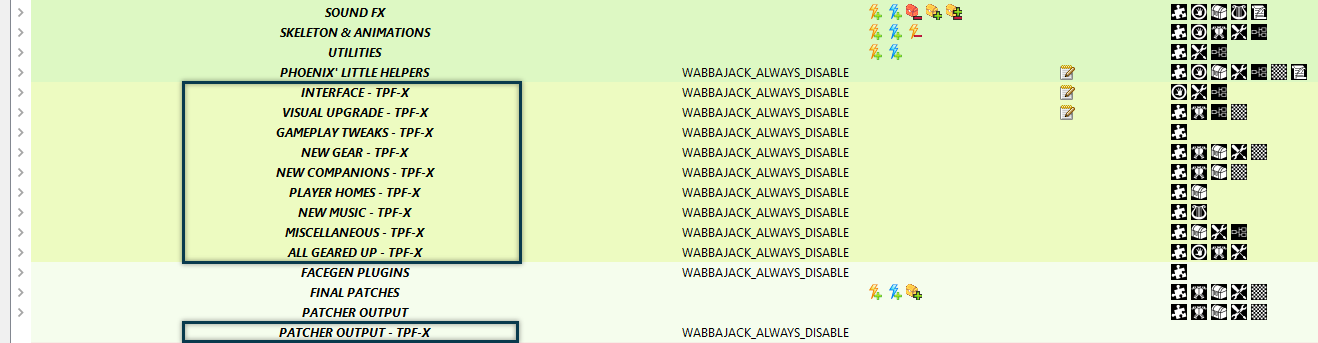
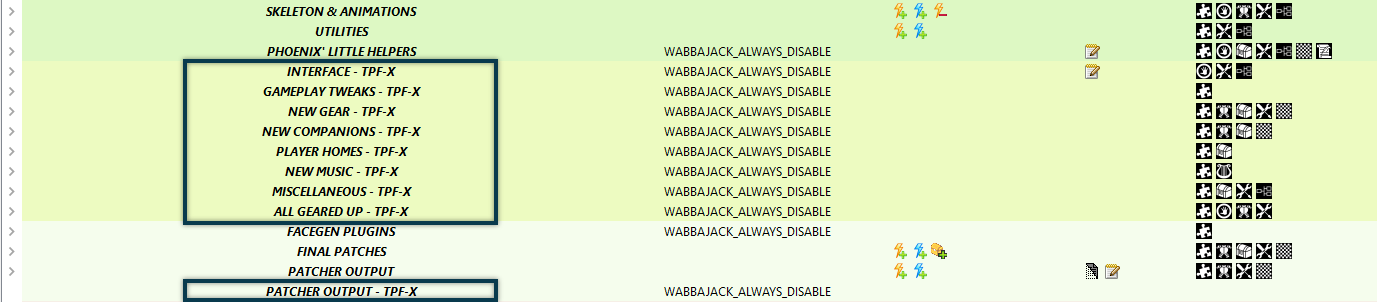
TPF 4.6 WIP 6

diff --git a/content/tpf-x/introduction/_index.md b/content/tpf-x/introduction/_index.md
@@ -11,9 +11,7 @@ description: >
 
 The Phoenix Flavour Extended or **TPF-X** for short is an **Addon** for the main TPF setup. It requires an up-to-date installation of The Phoenix Flavour and you will need to start a new save game.
 
-TPF-X and other TPF Addons are *separate* from the main guide. This means that you will not receive support in the official guide channels on Discord after installing it. You should install *and test* the main setup first before installing an Addon.
-
-> The current 1.0 version of TPF-X is an experiment. Please consider it a "beta" version, subject to change.
+TPF-X and other TPF Addons are *separate* from the main guide. This means that you will not receive support in the official guide channels on Discord after installing it. You should install *and test* the main setup first before installing an Addon. You may ask for support in the `#tpf-addons-support` channel.
 
 ### Wabbajack
 
@@ -24,11 +22,10 @@ TPF-X may be added as a second profile in the official Wabbajack installer in th
 TPF-X contains mods I personally want to play with but cannot reasonably add to the main setup. That includes both additional content as well as UI and other tweaks that are too much of a departure from the original style to be considered "vanilla plus". While I have a strict concept that I follow when selecting mods for TPF, I intend to use TPF-X mostly for trying things out.
 
 - **Interface:** Contains some interface mods most of which used to be in the base TPF setup but were removed. I don't actually play with most of these but they are easy additions and painless for me to support. Also contains two alternate font replacers!
-- **Visual Upgrade:** Support for Rudy ENB for Cathedral Weathers and my personal favourite grass overhaul, Folkvangr. May be expanded with separate INI instructions and more in the future.
-- **Gameplay Tweaks:** Additional mods that only affect combat so far, turning down the difficulty to more vanilla-like levels.
+- **Gameplay Tweaks:** Additional mods that only affect combat so far, turning down the difficulty to more vanilla-like levels and disabling kill cams altogether which is my personal preference.
 - **New Gear:** I have added a long-time personal favourite of mine, Royal Armory by PrivateEye which has been fixed and improved by other mod authors and brought to a state where it will fit in beautifully.
-- **New Companions:** I have added Inigo, my beloved blue cat, with a bunch of improvements, as well as Lucien whom I've always wanted to try out. It is unlikely that I will be adding more companions in the future but these two already bring insane amounts of content to the table.
-- **Player Homes:** Currently includes patches for three player homes from the Creation Club. They obviously require the original "creations".
+- **New Companions:** I have added Inigo, my beloved blue cat, with a bunch of improvements, as well as Lucien. It is unlikely that I will be adding more companions in the future but these two already bring insane amounts of content to the table.
+- **Player Homes:** Currently includes patches for three player homes from the Creation Club: Tundra Homestead, Myrwatch, and Shadowfoot Sanctum. The original "creations" are obviously required.
 - **New Music:** My personal favourite new music mods, all merged into a single, patched plugin. Features music by NirShor and OrganicView as well as new tracks from the original composer, Jeremy Soule.
 - **Miscellaneous:** A selection of mods I wouldn't add to TPF as they may be slightly controversial (see for yourself).
 - **AllGUD:** Support for All Geared Up Derivative which was removed from the main guide.

diff --git a/content/tpf/appendix/changelog.md b/content/tpf/appendix/changelog.md
@@ -67,6 +67,7 @@ I finally decided to move all mods adding to music, including my merged plugin, 
 
 - **New save required.**
 - Regenerate INI files ([instructions](/tpf/guide-resources/various-tutorials/#how-to-re-generate-ini-files-from-scratch)).
+- Update [SSELODGen](https://stepmodifications.org/forum/topic/13451-xlodgen-terrain-lod-beta-82-for-fnv-fo3-fo4-fo4vr-tes5-sse-tes5vr-enderal-enderalse/), delete your old terrain LOD output, and regenerate it ([instructions](/tpf/finalisation/sselodgen/)).
 - Rerun TexGen, DynDOLOD, and Occlusion ([instructions](/tpf/guide-resources/how-to-update/#dyndolod)).
 - **Wabbajack:** Reinstall Game Folder Files (ENBSeries updated).
 
@@ -267,6 +268,7 @@ I finally decided to move all mods adding to music, including my merged plugin, 
 - **Skeleton & Animations:** Moved All Geared Up Derivative (AllGUD) to TPF-X.
 - **Skeleton & Animations:** Moved AllGUD Conditions Fix to TPF-X.
 - **Skeleton & Animations:** Added Simple Dual Sheath.
+- **Skeleton & Animations:** Added instructions to remove some files from Dragon Animations Replacer.
 - **Utilities:** Removed Private Profile Redirector (apparently it still does mess up ENBs).
 - **Utilities:** Updated download instructions for Spell Perks Item Distributor (file name changed).
 
@@ -378,6 +380,8 @@ I finally decided to move all mods adding to music, including my merged plugin, 
 
 #### Wabbajack
 
+In 4.6, I removed the Tools folder in Mod Organizer 2. The primary reason for this is that it should not be used anyway: At least any LOD generating tools are supposed to be installed and generate output *outside* of MO2 directories. Additionally, Wabbajack users are not meant to use these tools anyway. If for whatever reason you absolutely need to rerun DynDOLOD, etc, you can refer to the manual guide for installation instructions (but there will be no support).
+
 - Regenerated INIs
 - Reverted to Cathedral Assets Optimizer 5.1.3
 - Updated Mod Organizer 2 to 2.4.2
@@ -390,7 +394,7 @@ I finally decided to move all mods adding to music, including my merged plugin, 
 - Updated Skyrim Landscape and Water Fixes to 6.2
 - Updated No Animals Report Crimes to 1.0.3
 - Updated Bug Fixes SSE to 3
-- Updated NPC AI Process Position Fix to 4.05
+- Updated NPC AI Process Position Fix to 4.05b
 - Updated Equip Enchantment Fix to 1.2.4
 - Updated Dwemer Gates Don't Reset to 1.3.1
 - Updated WoW Dragon Mounds CTD Fix to 1.2
@@ -403,8 +407,8 @@ I finally decided to move all mods adding to music, including my merged plugin, 
 - Updated Deiform Alduin to 1.1 r
 - Updated Mild Complexions to 2.0
 - Updated Adamant - A Perk Overhaul to 5.0.0
-- Updated Adamant - Shrines and Amulets to 5.0.1
-- Updated Aetherius - A Race Overhaul to 2.5.1
+- Updated Adamant - Shrines and Amulets to 5.0.3
+- Updated Aetherius - A Race Overhaul to 2.5.2
 - Updated Mundus - A Standing Stone Overhaul to 1.6.0
 - Updated Scion - A Vampire Overhaul to 1.2.0
 - Updated Forceful Tongues - Shouts Overhaul to 2.3.1

diff --git a/content/tpf/finalisation/dyndolod.md b/content/tpf/finalisation/dyndolod.md
@@ -85,9 +85,21 @@ Some of the TexGen settings were adopted from the [STEP guide for SSE](https://s
 
 DynDOLOD has a multitude of features and settings through which performance impact and visual improvements can be balanced out. I've chosen to defer to the expertise of the STEP team who have spend vastly more time than me experimenting with various DynDOLOD settings. With their permission, I have included their Optimal preset for DynDOLOD 3.00 created for the [STEP Skyrim SE guide](https://stepmodifications.org/wiki/SkyrimSE:2.0.0).
 
+### DynDOLOD Preset
+
 - Click [here](https://stepmodifications.org/wiki/images/3/30/DynDOLOD_SSE_Optimal.ini) to download the STEP Optimal preset for DynDOLOD.
 - Save the **DynDOLOD_SSE_Optimal.ini** to `\Your Modding Folder\Tools\DynDOLOD\Edit Scripts\DynDOLOD\Presets\`.
+- Open the INI file in Notepad++.
+- Near the top, in **Line 2**, change the output folder to be within your DynDOLOD installation folder.
+- For me, that would be: `F:\Modding\Skyrim SE Mods\Tools\DynDOLOD 3.0 Alpha 33\DynDOLOD_Output\`.
+- Save your changes and close Notepad++.
+
+![DynDOLOD Preset Output](/Pictures/tpf/finalisation/dyndolod-preset-output.png)
+
+### Run DynDOLOD
+
 - Run **DynDOLOD** through Mod Organizer 2.
+- Make sure all worldspaces in the top left box are ticked.
 - Click **Load Preset** (one of the buttons on the bottom left).
 - The DynDOLOD Presets folder should be opened automatically, double-click the **DynDOLOD_SSE_Optimal.ini**.
 - Click **OK** to start generating LOD.
@@ -100,7 +112,7 @@ DynDOLOD has a multitude of features and settings through which performance impa
 
 - Once DynDOLOD is done, click **Save & Exit**.
 - Navigate to `\Your Modding Folder\Tools\DynDOLOD\`.
-- Cut (CTRL+X) the **DynDOLOD_output** folder and paste it (CTRL+V) to `\Mod Organizer 2\mods\`.
+- Cut (CTRL+X) the **DynDOLOD_Output** folder and paste it (CTRL+V) to `\Mod Organizer 2\mods\`.
 - Refresh Mod Organizer 2 (F5) and it will appear at the bottom of your load order.
 - Place it last below the **PATCHER OUTPUT** separator and activate it.
 - Move **DynDOLOD.esm** below your other ESMs at the top of your load order.

diff --git a/content/tpf/performance-guide/_index.md b/content/tpf/performance-guide/_index.md
@@ -117,6 +117,12 @@ Regenerating TexGen should not be necessary. You could, in theory, to lower the 
 
 - Download the [**STEP DynDOLOD Performance Profile**](https://stepmodifications.org/wiki/images/c/c7/DynDOLOD_SSE_Performance.ini) (once again, thanks to STEP for allowing me to use their configurations!).
 - Save the **DynDOLOD_SSE_Optimal.ini** to `\Your Modding Folder\Tools\DynDOLOD\Edit Scripts\DynDOLOD\Presets\`.
+- Open the INI file in Notepad++.
+- Near the top, in **Line 2**, change the output folder to be within your DynDOLOD installation folder.
+- For me, that would be: `F:\Modding\Skyrim SE Mods\Tools\DynDOLOD 3.0 Alpha 33\DynDOLOD_Output\`.
+- Save your changes and close Notepad++.
+
+![DynDOLOD Preset Output](/Pictures/tpf/finalisation/dyndolod-preset-output.png)
 
 ### Regenerating DynDOLOD
 
@@ -125,7 +131,7 @@ Regenerating TexGen should not be necessary. You could, in theory, to lower the 
 - The **DynDOLOD Presets** folder should be opened automatically, double-click the **DynDOLOD_SSE_Optimal.ini**.
 - In the **Options** section at the bottom, check **Generate Tree LOD** (this will toggle off the **Ultra** setting).
 
-If you have *very* low-end specs (Skyrim SE minimum requirements or below), select the **Low** preset. This will largely remove DynDOLOD's performance impact. Otherwise, the loaded preset will be using the **Medium** mesh rules.
+If you have *very* low-end specs (Skyrim SE minimum requirements or below), select the **Low** preset. This will largely remove DynDOLOD's performance impact.
 
 - Click **OK** to start generating LOD.
 

diff --git a/content/tpf/mod-installation/skeleton-animations.md b/content/tpf/mod-installation/skeleton-animations.md
@@ -158,6 +158,18 @@ fInAirFallingCharGravityMult=1.8
 
 * **Main Files:** DragonAnimationReplace_inSE_1_01
 
+#### Additional Instructions
+
+- Delete the following file(s) and / or folder(s):
+  - `meshes\actors\dragon\animations\ground_bite.hkx`
+  - `meshes\actors\dragon\animations\ground_biteleft.hkx`
+  - `meshes\actors\dragon\animations\ground_biteright.hkx`
+  - `meshes\actors\dragon\animations\ground_tailwhip.hkx`
+  - `meshes\actors\dragon\animations\ground_tailwhipleft.hkx`
+  - `meshes\actors\dragon\animations\ground_tailwhipright.hkx`
+
+> Adjusted versions of these behaviours are included in Dragon War - A Dragon Combat Overhaul.
+
 ##### [Immersive Dragons](https://www.nexusmods.com/skyrimspecialedition/mods/18957?tab=files)
 
 #### Download Instructions

diff --git a/content/tpf-x/changelog/_index.md b/content/tpf-x/changelog/_index.md
@@ -23,12 +23,8 @@ description: >
 
 #### Visual Upgrade
 
-- Updated description, now using QW's Grass Patch.
-- Updated instructions for Folkvangr.
-- Added Cathedral 3D Pine Grass.
-- Added QW's Grass Patch.
-- Added grass density tweak instructions.
-- Moved everything from the Rudy ENB section to the main guide.
+- Pretty much everything was moved to the main guide.
+- This section was removed for the time being.
 
 #### New Gear
 

diff --git a/content/tpf/mod-installation/fixes.md b/content/tpf/mod-installation/fixes.md
@@ -198,7 +198,7 @@ description: >
 
 #### Download Instructions
 
-- **Main Files:** NPC AI Process Pos Fix-SSE-V4.05
+- **Main Files:** NPC AI Process Pos Fix-SSE-V4.05b
 
 ##### [Equip Enchantment Fix](https://www.nexusmods.com/skyrimspecialedition/mods/42839?tab=files)
 
